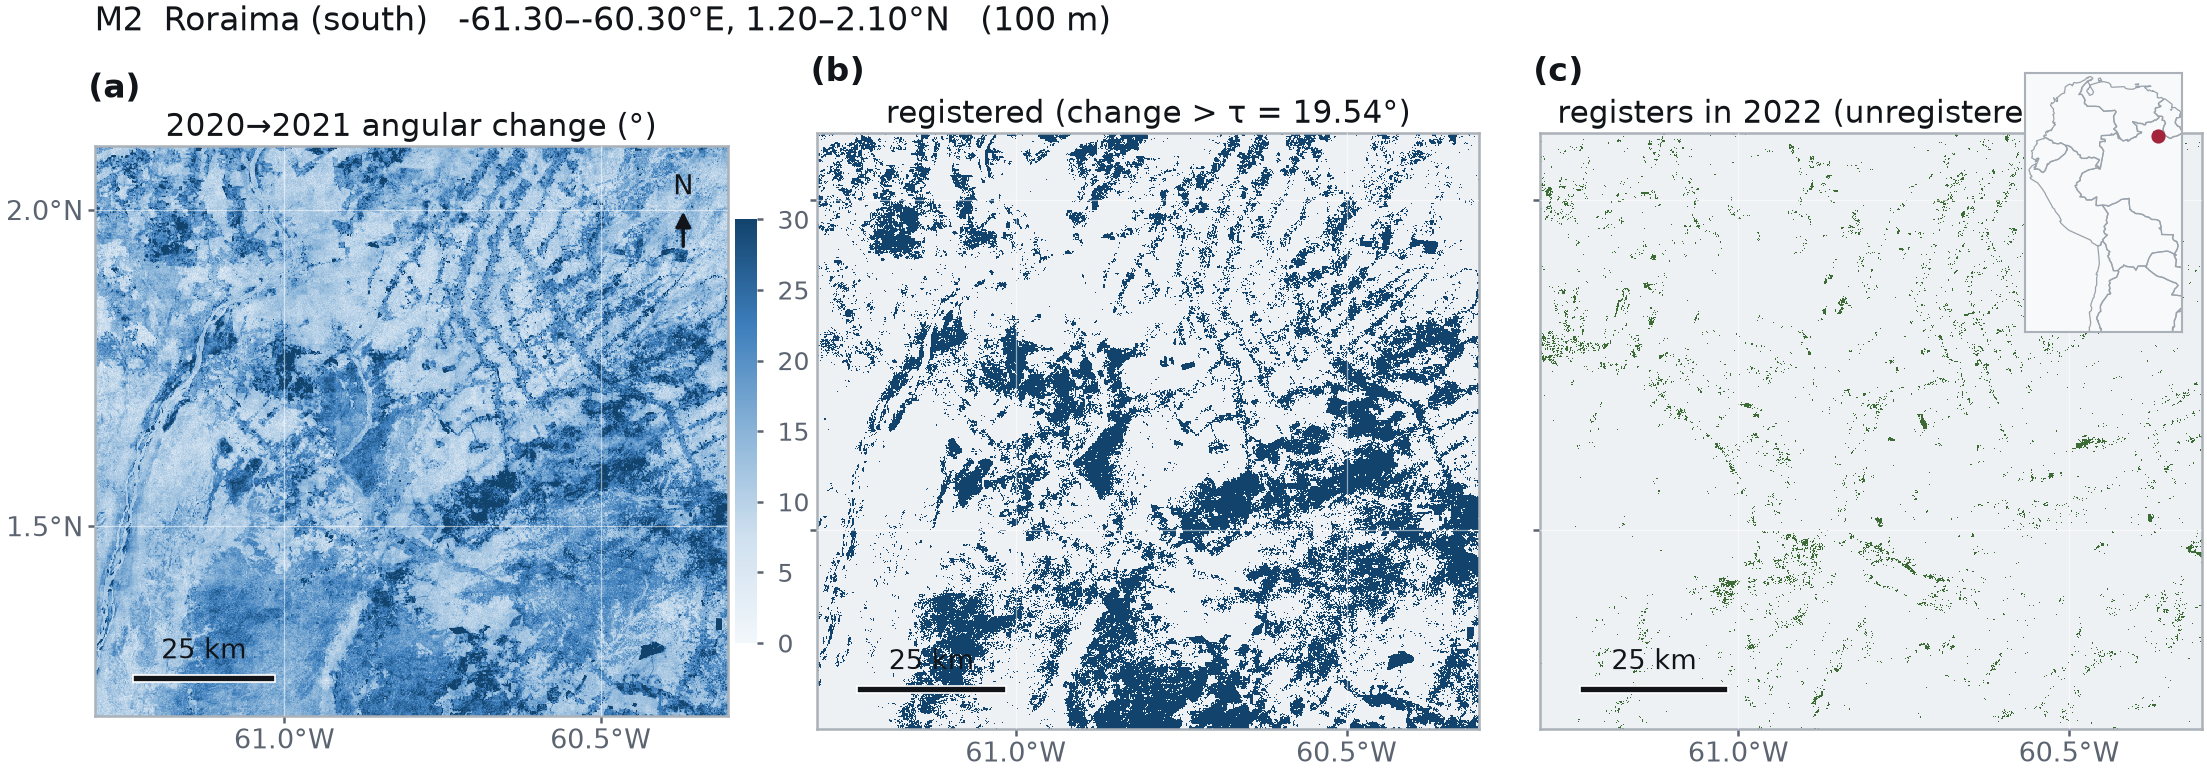
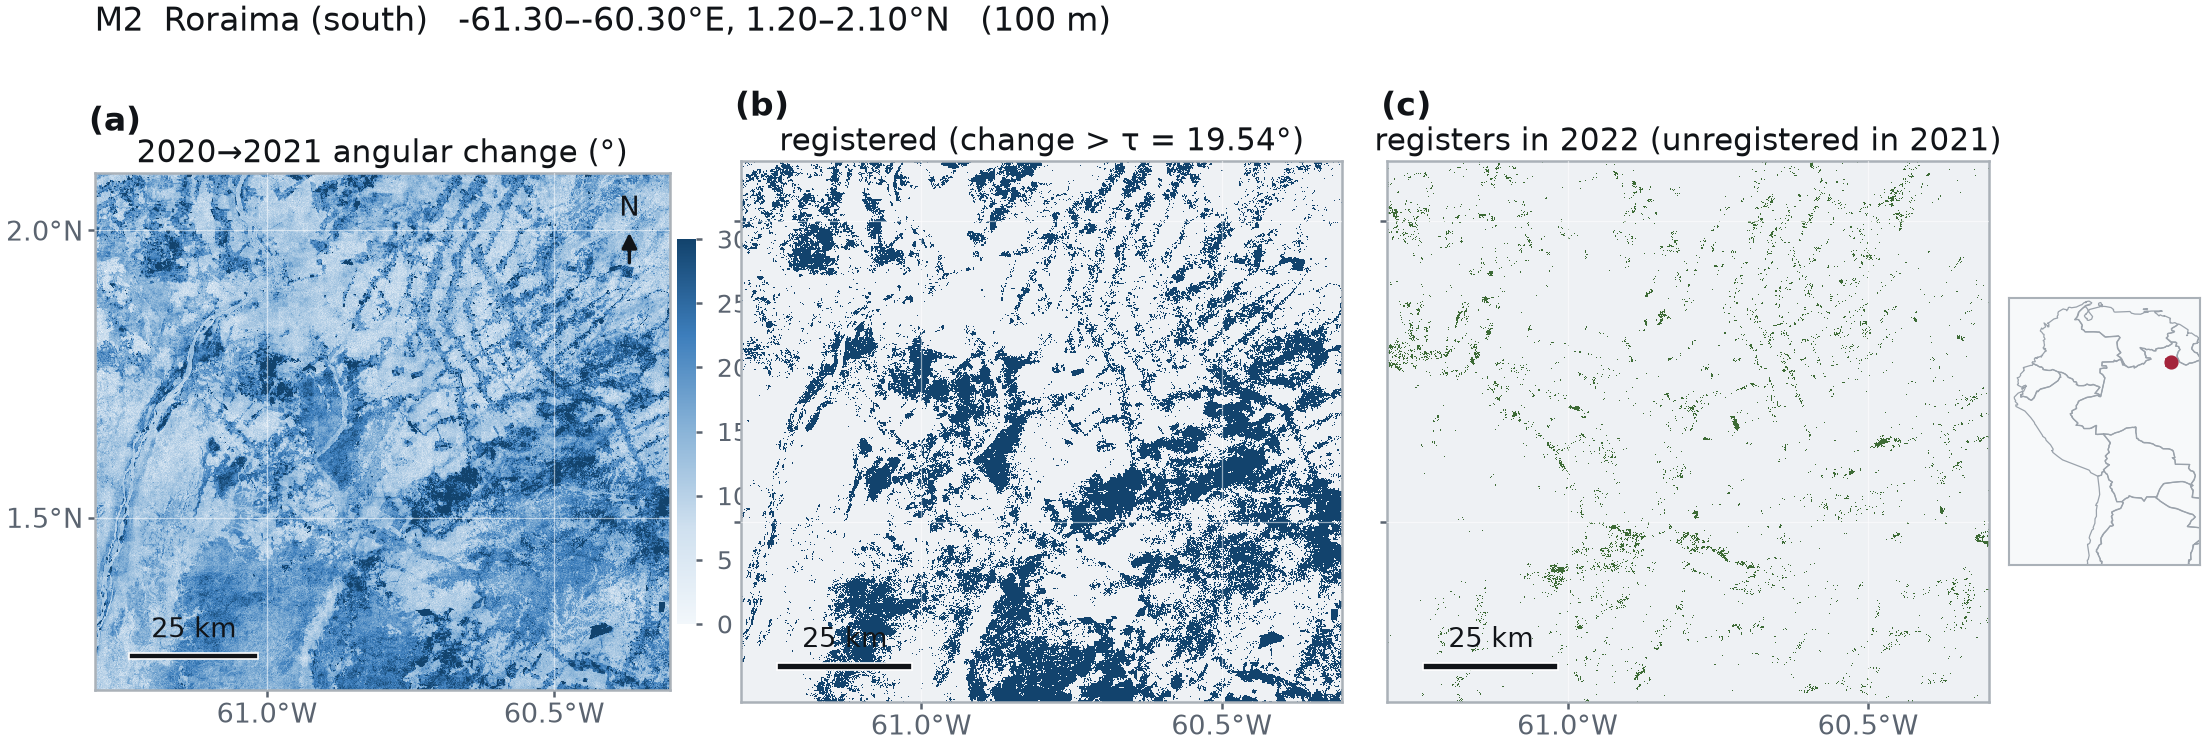
TB01-P6 section 6: novelty pass against Semantic Scholar, four references added
Eight targeted searches on the four questions specified plus four adjacent formulations.
No prior work measures the temporal fidelity of an annual embedding field. Four adjacent
groups found and now cited: AlphaEarth downstream benchmarking (ma2026harvesting), which
states its own evaluation record is about land-cover classification; a conference paper
using AEF embeddings as cloud-robust priors (belyakov2026cloudprior), the only result in
the same neighbourhood and pointing the other way - the manuscript now resolves the
tension in section 1.3 rather than leaving it to a reviewer; an operational-product
intercomparison in Brazil (potapov2026operational); and time-series work on what governs
detectability (rodman2021disturbance), cited where the rival 'harder events' explanation
is tested. Bibliography now 62 entries, all cited; main text 8,560 words.

diff --git a/aef_explore/paper/code/fig_maps.py b/aef_explore/paper/code/fig_maps.py
@@ -133,7 +133,7 @@ def plate(tag, cfg):
               ("b", reg, f"registered (change > τ = {cfg['tau']:.2f}°)"),
               ("c", dfr, "registers in 2022 (unregistered in 2021)")]
     for i, (t, arr, title) in enumerate(panels):
-        ax = fig.add_axes([0.045 + i * 0.322, 0.10, 0.295, 0.80])
+        ax = fig.add_axes([0.045 + i * 0.288, 0.10, 0.268, 0.80])
         if t == "a":
             im = ax.imshow(arr, extent=ext, cmap=ANG, vmin=0, vmax=30,
                            interpolation="nearest", zorder=1)
@@ -154,7 +154,7 @@ def plate(tag, cfg):
             cb.ax.tick_params(labelsize=6, length=1.5)
             cb.outline.set_visible(False)
         ax.set_xlim(ext[0], ext[1]); ax.set_ylim(ext[2], ext[3])
-    locator(fig, [0.905, 0.615, 0.070, 0.30], cfg["inset"], ext, segs)
+    locator(fig, [0.898, 0.345, 0.085, 0.31], cfg["inset"], ext, segs)
     fig.text(0.045, 0.965, f"{tag}  {cfg['label']}   {ext[0]:.2f}–{ext[1]:.2f}°E, "
              f"{ext[2]:.2f}–{ext[3]:.2f}°N   (100 m)", fontsize=8, color=INK)
     save(fig, f"{tag}_{key}.png")

diff --git a/aef_explore/paper/code/bib_build.py b/aef_explore/paper/code/bib_build.py
@@ -70,6 +70,10 @@ ENTRIES = [
  (10, "picoli2018bigearth", "10.1016/J.ISPRSJPRS.2018.08.007", "Brazilian time-series monitoring"),
  (10, "lima2019quality", "10.1016/J.ISPRSJPRS.2021.04.014", "class noise in image time series"),
  (11, "vancutsem2021tmf", "10.1126/sciadv.abe1603", "the Congo event set"),
+ (1, "wang2026harvesting", "10.1016/j.jag.2026.105258", "how AlphaEarth is currently evaluated: downstream label accuracy"),
+ (1, "anon2026cloudprior", "10.1109/ICETIS70504.2026.11633492", "the assumption that AEF embeddings are robust to observational gaps"),
+ (3, "chen2026operational", "10.3389/frsen.2026.1818592", "intercomparison of operational disturbance products in Brazil"),
+ (2, "cohen2021disturbance", "10.1016/j.rse.2020.112244", "what governs detectability in a time series: agent and severity, not history"),
  (12, "carroll2006measurement", "10.1201/9781420010138", "attenuation from covariate error"),
 ]
 

diff --git a/aef_explore/paper/LITERATURE_MAP.md b/aef_explore/paper/LITERATURE_MAP.md
@@ -1,12 +1,12 @@
 # Literature map — every reference, its cluster and the job it does
 
-**58 references**, all resolved by DOI content negotiation from doi.org (Crossref / DataCite); `references.bib` holds the registered metadata verbatim. Candidates were found with the Semantic Scholar Graph API (cached under `cache/`, one request per second); the curation — which candidate answers which part of the argument — is in the `ENTRIES` table of `code/bib_build.py`.
+**62 references**, all resolved by DOI content negotiation from doi.org (Crossref / DataCite); `references.bib` holds the registered metadata verbatim. Candidates were found with the Semantic Scholar Graph API (cached under `cache/`, one request per second); the curation — which candidate answers which part of the argument — is in the `ENTRIES` table of `code/bib_build.py`.
 
 ## Venue distribution
 
 | venue | n | target |
 |---|---|---|
-| Remote Sensing of Environment | 11 | ≥ 8 ✔ |
+| Remote Sensing of Environment | 12 | ≥ 8 ✔ |
 | IEEE Transactions on Geoscience and Remote Sensing | 8 | ≥ 6 ✔ |
 | ISPRS Journal of Photogrammetry and Remote Sensing | 6 | ≥ 5 ✔ |
 | IEEE Journal of Selected Topics in Applied Earth Observations and Remote Sensing | 5 | ≥ 4 ✔ |
@@ -14,6 +14,7 @@
 | Environmental Research Letters | 3 | — |
 | Science | 2 | — |
 | Remote Sensing | 2 | — |
+| International Journal of Applied Earth Observation and Geoinformation | 2 | — |
 | Science Advances | 2 | — |
 | Nature Communications | 2 | — |
 | IEEE Transactions on Pattern Analysis and Machine Intelligence | 1 | — |
@@ -22,12 +23,13 @@
 | ISPRS International Journal of Geo-Information | 1 | — |
 | International Journal of Digital Earth | 1 | — |
 | Remote Sensing Applications: Society and Environment | 1 | — |
-| International Journal of Applied Earth Observation and Geoinformation | 1 | — |
 | Annual Review of Environment and Resources | 1 | — |
 | Ecography | 1 | — |
 | Methods in Ecology and Evolution | 1 | — |
 | 2018 25th IEEE International Conference on Image Processing (ICIP) | 1 | — |
 | Scientific Reports | 1 | — |
+| 2026 11th International Conference on Electronic Technology and Information Science (ICETIS) | 1 | — |
+| Frontiers in Remote Sensing | 1 | — |
 | Chapman and Hall/CRC | 1 | — |
 
 MDPI titles: **3** (ceiling 5) ✔
@@ -48,6 +50,8 @@ MDPI titles: **3** (ceiling 5) ✔
 | `hong2024spectralgpt` — Hong et al. | IEEE Transactions on Pattern Analysis and Machine Intelligence, 2024 | spectral foundation model |
 | `brown2025alphaearth` — Brown et al. | arXiv, 2025 | the embedding product under test |
 | `szwarcman2026prithvi2` — Szwarcman et al. | IEEE Transactions on Geoscience and Remote Sensing, 2026 | multitemporal FM successor |
+| `ma2026harvesting` — Ma et al. | International Journal of Applied Earth Observation and Geoinformation, 2026 | how AlphaEarth is currently evaluated: downstream label accuracy |
+| `belyakov2026cloudprior` — Belyakov et al. | 2026 11th International Conference on Electronic Technology and Information Science (ICETIS), 2026 | the assumption that AEF embeddings are robust to observational gaps |
 
 ### 2. Temporal semantics of annual composites and products
 
@@ -61,6 +65,7 @@ MDPI titles: **3** (ceiling 5) ✔
 | `zhu2014ccdc` — Zhu et al. | Remote Sensing of Environment, 2014 | continuous change detection |
 | `zhu2020cold` — Zhu et al. | Remote Sensing of Environment, 2020 | continuous land-disturbance monitoring |
 | `zhang2020thirtym` — Zhang et al. | ISPRS Journal of Photogrammetry and Remote Sensing, 2020 | annual land-surface change detection |
+| `rodman2021disturbance` — Rodman et al. | Remote Sensing of Environment, 2021 | what governs detectability in a time series: agent and severity, not history |
 | `brown2022dynamicworld` — Brown et al. | Scientific Data, 2022 | near-real-time land cover |
 | `bogaert2022hmm` — Bogaert et al. | IEEE Transactions on Geoscience and Remote Sensing, 2022 | temporal consistency of annual maps |
 
@@ -79,6 +84,7 @@ MDPI titles: **3** (ceiling 5) ✔
 | `doblas2022deterr` — Doblas et al. | Remote Sensing, 2022 | radar-based operational alerts |
 | `bullock2022timeliness` — Bullock et al. | Remote Sensing of Environment, 2022 | timeliness assessment framework |
 | `reiche2024integrating` — Reiche et al. | Environmental Research Letters, 2024 | alert integration and timeliness |
+| `potapov2026operational` — Potapov et al. | Frontiers in Remote Sensing, 2026 | intercomparison of operational disturbance products in Brazil |
 
 ### 4. Cloud cover and optical observation supply in the tropics
 
@@ -176,3 +182,63 @@ MDPI titles: **3** (ceiling 5) ✔
 |---|---|---|
 | `carroll2006measurement` — Carroll et al. | Chapman and Hall/CRC, 2006 | attenuation from covariate error |
 
+
+## Novelty pass
+
+Eight targeted searches were run against the Semantic Scholar Graph API on the four questions
+the brief specifies — annual-embedding temporal fidelity, AlphaEarth change detection, the
+optical-versus-SAR contribution inside a learned representation, and deforestation year
+attribution — plus four adjacent formulations (cloud effects on annual composites, `lossyear`
+timing accuracy, observation density as a predictor of omission, and operational product
+intercomparison). Queries are in `code/queries/novelty.json`; every response is cached under
+`cache/`.
+
+**Nothing found measures the temporal fidelity of an annual embedding field.** The closest work
+falls into four groups, and each is adjacent rather than overlapping.
+
+*AlphaEarth applications and benchmarks.* A rapidly growing set of papers applies the published
+embeddings to a downstream task — agricultural monitoring (`ma2026harvesting`, now cited),
+biomass, air quality, slum mapping, mangrove classification, tea plantations, wildfire
+susceptibility. Every one of them scores label accuracy on a task; none asks which events enter
+which year's vector. `ma2026harvesting` is the most systematic and is explicit that the
+existing evaluation record is "mostly about land cover and land use classification", which is
+precisely the gap we occupy. **No overlap; cited as evidence for the gap.**
+
+*Embeddings used as cloud-robust priors.* One conference paper conditions an image-restoration
+model on AlphaEarth embeddings on the stated grounds that they are "robust to temporary
+observational gaps such as cloud cover" (`belyakov2026cloudprior`, now cited). This is the only
+result found that makes a claim in the neighbourhood of ours, and it points the other way. The
+tension is resolvable and we resolve it in Section 1.3: a year-long embedding is a stable
+descriptor of a *place*, which is why it helps restore a cloudy image, and that is compatible
+with it being a poor descriptor of *when* a change happened. **Partial overlap in subject,
+opposite in direction; engaged explicitly in the manuscript.**
+
+*Operational product intercomparison.* An evaluation of MapBiomas Alerta, Tree Cover Loss and
+TMF in Brazilian primary forests for 2023–2024 (`potapov2026operational`, now cited) compares
+disturbance products against one another. It shares our concern with what operational products
+record, but compares alert and annual products among themselves rather than auditing a
+general-purpose representation, and it does not model observation supply. **No overlap; cited
+in the discussion as the natural companion to our two-tier guidance.**
+
+*What governs detectability in a time series.* Work on Landsat time series shows detection
+accuracy depends on mortality agent and disturbance severity rather than on prior disturbance
+history (`rodman2021disturbance`, now cited). Methodologically this is the same shape of
+question as ours — what property of the event, rather than of the algorithm, governs whether it
+is detected — applied to a different product and a different candidate explanation. **No
+overlap; cited where we test the rival "harder events" explanation.**
+
+*Year attribution.* Searches on loss-year misattribution returned nothing measuring the
+timing accuracy of an annual product against independently dated events. The nearest is older
+work on how the choice of imagery affects attribution of change to disturbance type, which
+concerns *what* a change is attributed to rather than *when*. **No overlap.**
+
+*Optical versus SAR inside a representation.* This search returned essentially nothing: the
+literature compares optical and SAR *detectors* (cluster 5) but does not ask what each
+contributes to a fused learned representation's ability to record an event. **No overlap, and
+we regard this as the least contested of our contributions.**
+
+**Assessment.** The four searches the brief names return no prior measurement of what we
+measure. The one paper that touches the same product and the same mechanism assumes the
+property we test and finds it useful for a different purpose; we now cite it and address the
+apparent conflict directly rather than leaving a reviewer to raise it. Four references were
+added to the bibliography as a result of this pass, bringing it to 62.

diff --git a/aef_explore/paper/MANUSCRIPT.md b/aef_explore/paper/MANUSCRIPT.md
@@ -119,7 +119,15 @@ No published work measures the temporal fidelity of an annual embedding field: w
 enter the right year's vector, which are deferred, and what predicts the difference. The
 benchmarks that accompany foundation models score label accuracy on downstream tasks and treat
 the temporal dimension as a modelling input rather than as a property to be validated
-[@marsocci2024pangaea]. The change-detection literature that works with learned
+[@marsocci2024pangaea; @ma2026harvesting]. Where the temporal behaviour of an embedding is
+invoked at all, it tends to be as an assumption in its favour: embeddings built from a full
+year of fused observation are described as robust to temporary gaps such as cloud, and are used
+as priors for exactly that reason [@belyakov2026cloudprior]. Our results qualify that
+assumption rather than contradict it — a year-long embedding is indeed a stable descriptor of a
+place, which is why it survives cloud; what does not survive is the timing of a change that
+arrives near the end of the year.
+
+The change-detection literature that works with learned
 representations trains detectors on bitemporal pairs or on curated time series [@saha2019dcva;
 @daudt2018siamese; @chen2022bit; @chen2021dasnet; @chen2024changemamba; @li2023sartscc;
 @lin2024transformermad; @tian2022largescale], and the self-supervised branch pretrains on
@@ -633,7 +641,9 @@ first registration. That costs temporal precision and buys almost all of the acc
 reducing misattribution from 3.48 % to 0.12 %. For applications with a hard annual boundary —
 a regulatory cut-off, an inventory period — the honest statement is that a differenced annual
 embedding is not on its own an adequate instrument, and should be paired with an alert product
-whose latency is measured [@bullock2022timeliness; @reiche2024integrating].
+whose latency is measured [@bullock2022timeliness; @reiche2024integrating]. Intercomparisons of
+the operational products available in Brazil provide a starting point for that pairing
+[@potapov2026operational].
 
 ### 5.2 Expected-supply maps as a planning instrument
 
@@ -716,6 +726,8 @@ One further reading of the results deserves stating, because it is the one a sce
 should test first. Everything reported here is consistent with a much duller alternative: that
 the low-observation events are simply harder events — smaller, more partial, more ambiguous —
 and that observation count is a proxy for difficulty rather than a cause of non-registration.
+It is the same class of question as asking whether a time-series detector's accuracy depends on
+the disturbance agent and its severity rather than on the site's history [@rodman2021disturbance].
 Three findings weigh against that reading. The gap grows rather than shrinks with polygon size
 (Section 4.1); it survives excluding the optically late events that are the most plausible
 carriers of ambiguity, and the conditional coefficient triples when they are excluded
